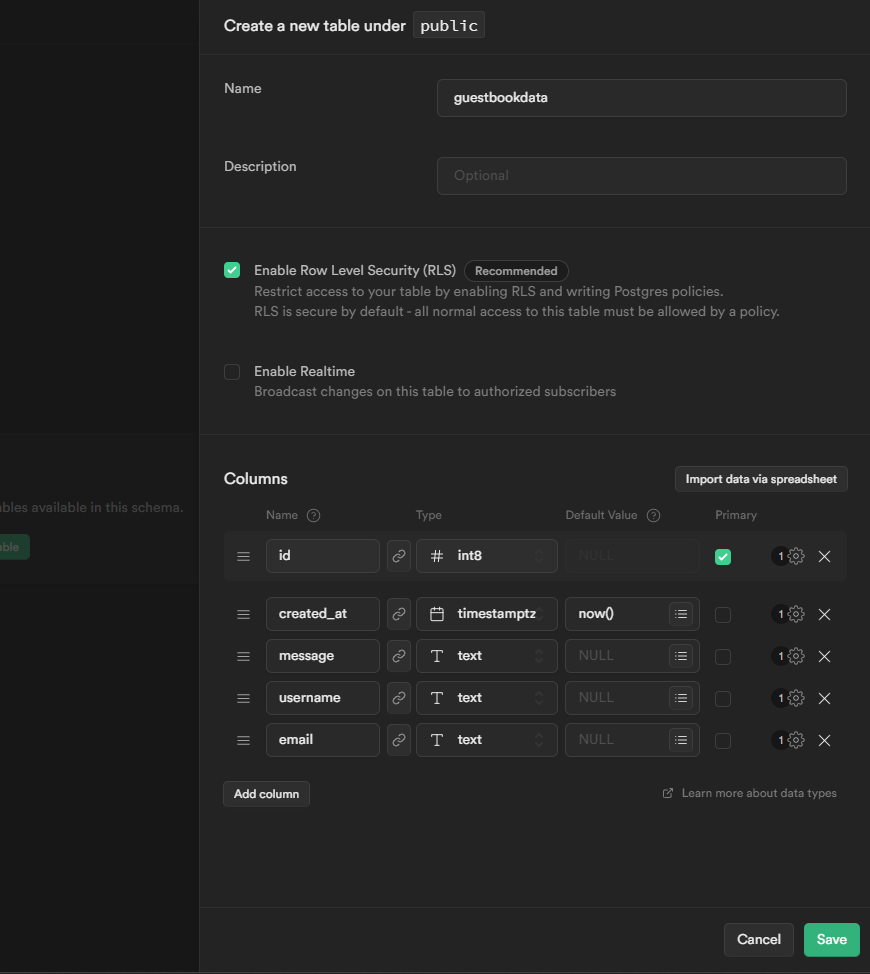
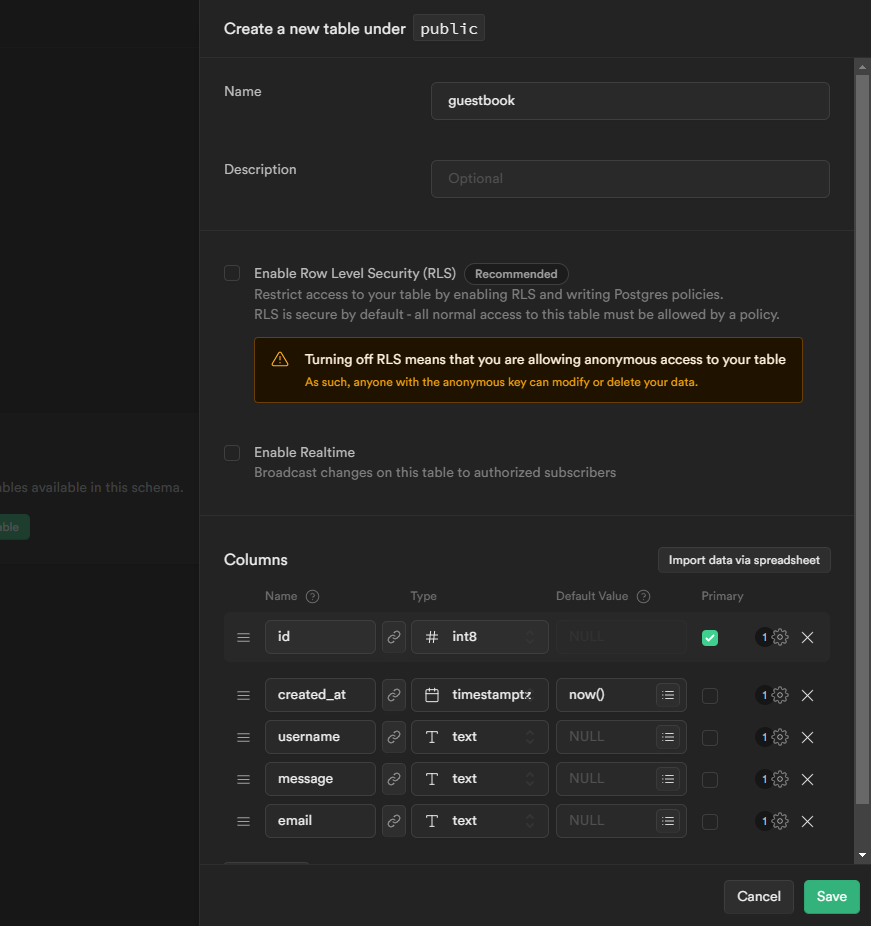
getting data from supabase

diff --git a/pages/index.jsx b/pages/index.jsx
@@ -1,19 +1,17 @@
 import React from 'react'
 import Head from 'next/head'
 import { BsGithub } from 'react-icons/bs'
-import { supabase } from '../lib/supabaseClient'
+import { supabase } from '../lib/supabaseClient.js'
 
 const index = () => {
     const [guestbookData, setGuestbookData] = React.useState(null)
     const messageInput = React.useRef()
+
     const fetchguestbook = async () => {
-        const { data, error } = await supabase.from('guestbookdata').select()
-        if (error) {
-            alert('error to fetch guestbook data')
-            setGuestbookData(error)
-        }
+        const { data, error } = await supabase.from('guestbook').select()
         if (data) {
             setGuestbookData(data)
+            console.log(data)
         }
     }
     React.useEffect(() => {
@@ -52,15 +50,21 @@ const index = () => {
                     </button>
                 </div>
             </div>
-            <div className="">
+            <div className=" my-5">
                 <ul>
-                    {guestbookData&&
+                    {guestbookData &&
                         guestbookData
                             .sort((a, b) => (a.id < b.id ? 1 : -1))
-                            .map((data) => (
-                                <li key={data.id}>
-                                    <p>{data.message}</p>
-                                    <p>{data.username}</p>
+                            .map((guestbookData) => (
+                                <li key={guestbookData.id} className="hover:bg-neutral-400 p-3 rounded-md duration-100">
+                                    <p className="text-md">{guestbookData.message}</p>
+                                    <div className="flex text-xs">
+                                        <p>{guestbookData.username}</p>&thinsp;<p>/</p>&thinsp;
+                                        <p>
+                                            {guestbookData.created_at.slice(0, 10)}&thinsp;at&thinsp;
+                                            {guestbookData.created_at.slice(11, 19)}
+                                        </p>
+                                    </div>
                                 </li>
                             ))}
                 </ul>

diff --git a/components/Footer.tsx b/components/Footer.tsx
@@ -2,7 +2,7 @@ import React from 'react'
 import Link from 'next/link'
 const Footer = () => {
     return (
-        <div className="flex text-md px-[10px]">
+        <div className="flex text-md">
             <p>MIT&nbsp;2023&thinsp;©&thinsp;</p>
             <Link href="https://github.com/chenelias/" className="underline underline-offset-4 decoration-dotted">
                 EliasChen
